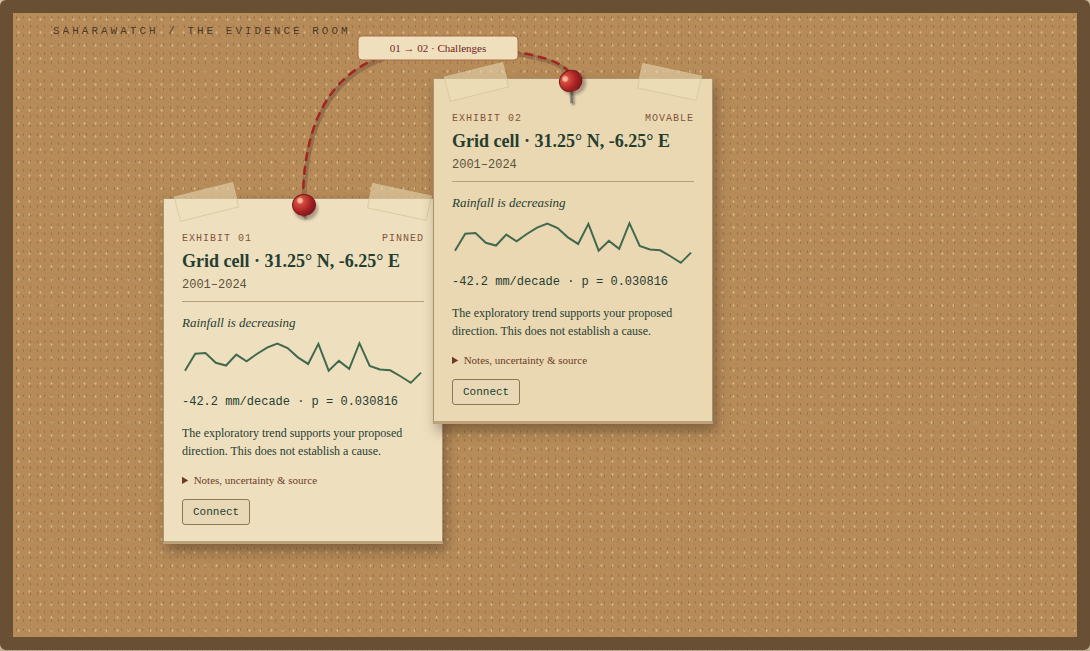
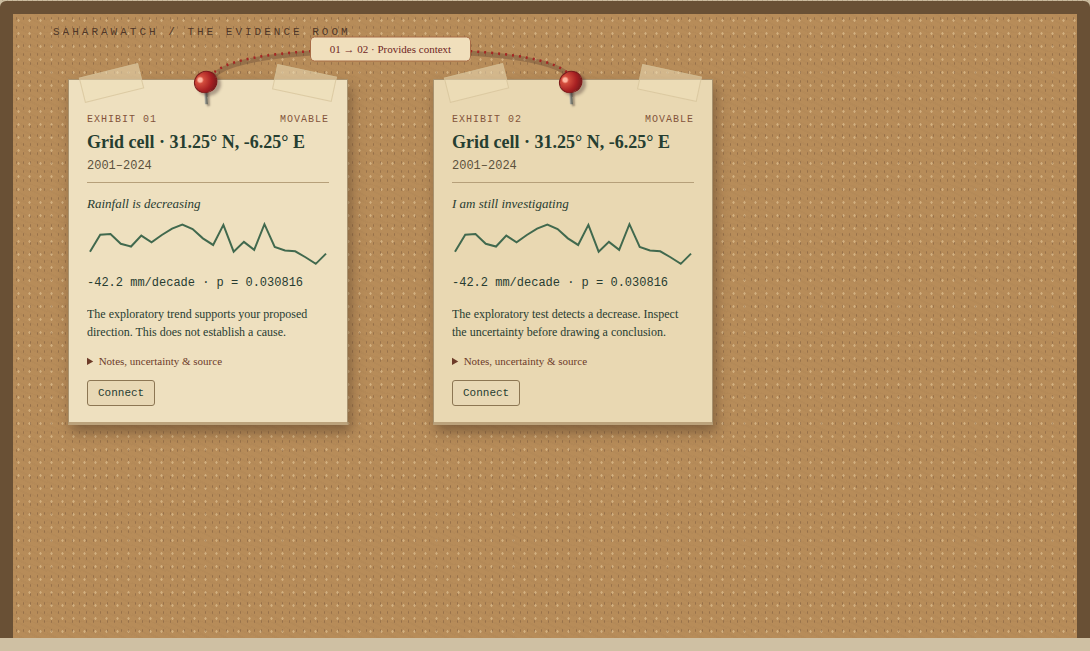
docs(readme): refresh previews for the current workspaces
Replace README screenshots with captures of the current dashboard, opening case folders, satellite year controls, rainfall playback, and evidence board. Update navigation and download instructions and add a repeatable core screenshot capture script.

diff --git a/scripts/capture_readme.py b/scripts/capture_readme.py
@@ -1,0 +1,42 @@
+"""Capture the current dashboard, rainfall playback and connected notebook for the README."""
+import os
+from pathlib import Path
+
+from playwright.sync_api import sync_playwright, expect
+
+ROOT=Path(__file__).resolve().parents[1]
+
+with sync_playwright() as p:
+    executable=Path.home()/'.cache/ms-playwright/chromium-1255/chrome-linux64/chrome'
+    browser=p.chromium.launch(headless=True,executable_path=str(executable) if executable.exists() else None,
+                             args=['--no-sandbox','--enable-unsafe-swiftshader'])
+    page=browser.new_page(viewport={'width':1550,'height':1450})
+    page.goto(os.environ.get('SAHARAWATCH_TEST_URL','http://localhost:8501'))
+    page.get_by_role('heading',name='The curious case of the missing rain.',exact=True).wait_for(timeout=60000)
+    page.wait_for_function("document.querySelector('.js-plotly-plot')?._fullLayout?.map?._subplot?.map?.loaded()",timeout=60000)
+    page.screenshot(path=str(ROOT/'assets/dashboard.png'),full_page=True)
+    page.get_by_role('tab',name='04 / Field notebook',exact=True).click()
+    page.get_by_role('textbox',name='Field notes',exact=True).fill('A single dry year does not establish a long-term drying trend.')
+    page.get_by_role('button',name='＋ Pin this evidence to the notebook',exact=True).click()
+    expect(page.locator('.evidence-card')).to_have_count(1)
+    page.get_by_text('I am still investigating',exact=True).click()
+    page.get_by_role('button',name='Stop',exact=True).wait_for(state='hidden',timeout=30000)
+    page.get_by_role('button',name='＋ Pin this evidence to the notebook',exact=True).click()
+    expect(page.locator('.evidence-card')).to_have_count(2)
+    page.get_by_role('combobox',name='Evidence relationship',exact=True).select_option('context')
+    page.get_by_role('button',name='Connect clue 01',exact=True).click()
+    page.get_by_role('button',name='Connect clue 02',exact=True).click()
+    expect(page.locator('.string-line')).to_have_count(1)
+    expect(page.locator('.board-status')).to_contain_text('Board saved',timeout=30000)
+    page.locator('.board-scroll').screenshot(path=str(ROOT/'assets/evidence-board.png'))
+    page.get_by_role('tab',name='01 / Evidence atlas',exact=True).click()
+    page.get_by_text('Open the rainfall time machine',exact=True).click()
+    element=page.locator('iframe[title="Animated rainfall map and synchronized location timeline"]')
+    element.wait_for(timeout=60000)
+    element.scroll_into_view_if_needed()
+    frame=element.element_handle().content_frame()
+    frame.wait_for_function("document.querySelector('.js-plotly-plot')?._fullLayout?.map?._subplot?.map?.loaded()",timeout=60000)
+    element.screenshot(path=str(ROOT/'assets/rainfall-history.png'))
+    assert not page.locator('[data-testid="stException"]').count()
+    print('README dashboard, connected evidence board and rainfall playback screenshots refreshed.')
+    browser.close()

diff --git a/README.md b/README.md
@@ -18,7 +18,9 @@ python scripts/prepare_data.py
 streamlit run app.py
 ```
 
-Open **http://localhost:8501**. The preparation command downloads the approximately 20 MB source file once. Subsequent runs validate the existing file. To explicitly update it, use `python scripts/prepare_data.py --refresh`. Downloads are validated before replacing an existing valid file. The dashboard never downloads data on interaction and shows an actionable error if the source is missing or malformed.
+Open **http://localhost:8501**. The preparation command downloads the approximately 20 MB rainfall source file once. Subsequent runs validate the existing file. To explicitly update it, use `python scripts/prepare_data.py --refresh`. Downloads are validated before replacing an existing valid file. Rainfall exploration uses the prepared local observations and shows an actionable error if that source is missing or malformed. Custom satellite imagery and point temperature observations download only through their explicit load buttons; downloaded evidence is cached locally.
+
+Start with **Explore rainfall**, **Compare satellite images**, or **Quizzes & investigations** at the top. Satellite imagery has its own tab beside the atlas; its date controls are separate from rainfall filters. Case files offer a guided quiz or an independent investigation for each of the six folders.
 
 The prepared dataset in this workspace covers **January 1979–October 2026**; complete calendar years through **2025** are available for annual exploration. The default analysis is **2001–2024**, with a **2001–2020** anomaly baseline. Coverage follows the downloaded file, not a hardcoded latest date.
 
@@ -43,9 +45,9 @@ Precipitation deficits are evidence of meteorological dryness, not a complete as
 - Change the analysis window, baseline, anomaly observation year, and significance threshold.
 - Inspect annual and monthly rainfall, a fitted annual trend, optional moving averages, seasonal climatology, and anomalies.
 - Compare two countries or two geographic grid cells on shared axes, in rainfall units or standardized anomalies. Each selection includes a historical chart, confidence interval, sample size, recent anomaly, and deterministic comparison of absolute and relative trend magnitudes. Download the summaries as CSV; a separate paired Newey–West HAC test evaluates the common-year linear trend difference.
-- Open **Explore a Climate Mystery** under **03 / Case files** for live Morocco trends and anomalies, Morocco versus Algeria/Tunisia comparisons, historical annual anomaly maps, and a ranking of absolute precipitation trends. Presets preserve the chosen analysis period. The strongest-trends case includes a ranked map, top-20 table, and complete CSV export; raw p-values and BH-FDR flags distinguish magnitude from statistical evidence.
-- Play **Case 005 / Has the rain returned?**: predict Morocco’s recent rainfall balance, reveal three clues, pin evidence, and submit a verdict before uncovering the calculated assessment. Download the solved case with its frozen observations and provenance.
-- Open the **satellite before/after reveal** in Case files to slide between real February 2023 and February 2024 views around Casablanca, inspect the coarse rainfall-cell footprint, and compare the imagery dates with monthly GPCP observations.
+- Open **03 / Case files** and choose any of six cases: long-term trends, cross-country comparison, annual anomalies, trend magnitude versus significance, recent rainfall recovery, and satellite interpretation. Each case offers **Answer the quiz** and **Investigate on your own**.
+- Guided quizzes freeze the observations when opened and ask one question after each of three clues. Feedback explains the supported answer and the misconception behind other choices. Completed quizzes, active attempts and independent drafts stay separate for each case in the session; download reports before closing it.
+- Independent investigations let you state a hypothesis, choose countries and periods, inspect live charts, pin evidence as supporting, challenging or contextual, and save a conclusion with one limitation. Completion records the required steps without automatically grading written scientific conclusions. The satellite case links directly to the dedicated comparison workspace.
 - Jump to the selected location’s driest year, trace its long-term trend, or challenge the evidence with the significance map.
 - Record a working hypothesis in the field notebook and compare it with the calculated trend, including inconclusive results.
 - Pin evidence snapshots with their location, analysis period, baseline, source, uncertainty, and field notes. Remove clues or download a Markdown case report. The notebook is session-only; download it before closing or refreshing the session. Starting a fresh investigation clears it.
@@ -59,39 +61,62 @@ The dashboard uses Streamlit, Plotly, xarray, NumPy, Pandas, SciPy, netCDF4, and
 
 ### Satellite before/after reveal
 
-Open **03 / Case files → Open the satellite before/after reveal**. Drag the divider, tap the image, or use the keyboard slider to compare Aqua MODIS imagery from **12 February 2023** with Terra MODIS imagery from **19 February 2024**. Both NASA GIBS true-color images cover the same 9–6° W, 31–34° N extent around Casablanca. An optional overlay shows the actual **2.5° GPCP cell boundaries**, making the difference between imagery detail and rainfall resolution visible.
+Click **Compare satellite images** at the top of the app, or open the **Satellite images** tab beside the rainfall atlas. Images appear immediately: no quiz, hypothesis, or reveal toggle is required. The recommended example compares Aqua MODIS on **12 February 2023** with Terra MODIS on **19 February 2024**, over the same 9–6° W, 31–34° N extent around Casablanca.
 
-![Satellite comparison showing aligned February 2023 and February 2024 views around Casablanca, a draggable divider, and the GPCP cell overlay](assets/satellite-comparison.png)
+![Satellite comparison with a draggable divider and optional GPCP cell overlay](assets/satellite-comparison.png)
 
-The original satellite views, covering the same geographic extent:
+**Choose your own years:** select **Choose years**, choose Terra or Aqua MODIS, set a **Before year** and **After year**, and choose a common month/day. Press **Load comparison** to request those exact dates from NASA GIBS. The displayed **Showing** label always states the dates and platforms of the images actually loaded. Controls do not relabel an old image while a new selection is pending.
+
+![Satellite workspace with year, month and day controls](assets/satellite-year-controls.png)
+
+[View the year controls on mobile](assets/satellite-year-controls-mobile.png).
+
+The app checks NASA's actual time-domain catalogue, including known gaps. Invalid dates, reversed or equal years, future dates, unreadable responses, and blank imagery produce an explanation while retaining the previous comparison. No nearby date is silently substituted. Clouds, haze and snow can still obscure valid imagery; change the common day to inspect another acquisition. Transparent missing-data area is distinguished from valid pixels; valid-image coverage is **not** a cloud-free percentage.
+
+Custom comparisons use the same satellite, output extent, projection, month and day in both years. Exact original PNG responses, request URLs, timestamps, checksums, and valid-image area are cached under ignored `data/raw/satellite/`. New images are fetched only after **Load comparison**; dragging the divider, changing rainfall filters, or returning to a previously downloaded pair reuses local observations. The recommended example is bundled and remains available without a network connection.
+
+The rainfall chart marks the loaded acquisition dates and shows the nearest GPCP cell to Casablanca. Separate six-month totals cover complete months before each acquisition month; missing observations withhold the corresponding total. Monthly bars include days after acquisition and cannot resolve individual rainfall events. The optional overlay shows actual **2.5° GPCP cell boundaries**, rather than suggesting that image detail increases rainfall resolution. Rainfall sidebar settings are collapsed in this workspace and do not change image dates.
+
+Download the evidence ZIP for both original images, monthly rainfall CSV and the loaded pair's provenance. **Investigate this comparison** opens **Case 006 → Investigate on your own**, carrying the current dates into evidence pins and saved reasoning. The Case 006 quiz uses the fixed 2023/2024 teaching example and labels it separately.
+
+The original example, with matching geographic extent:
 
 | Before · 12 February 2023 · Aqua MODIS | After · 19 February 2024 · Terra MODIS |
 | --- | --- |
-| ![Before: NASA GIBS true-color view around Casablanca on 12 February 2023](data/satellite/casablanca-2023-02-12.jpg) | ![After: NASA GIBS true-color view around Casablanca on 19 February 2024](data/satellite/casablanca-2024-02-19.jpg) |
+| ![Before: NASA GIBS view around Casablanca on 12 February 2023](data/satellite/casablanca-2023-02-12.jpg) | ![After: NASA GIBS view around Casablanca on 19 February 2024](data/satellite/casablanca-2024-02-19.jpg) |
 
-[View the satellite comparison on mobile](assets/satellite-comparison-mobile.png).
+[View the comparison on mobile](assets/satellite-comparison-mobile.png). See [image provenance and limits](data/satellite/README.md), [NASA's original context](https://science.nasa.gov/earth/earth-observatory/drought-parches-morocco-152467/) and [GIBS time-domain documentation](https://nasa-gibs.github.io/gibs-api-docs/access-basics/).
 
-The rainfall chart marks both acquisition dates and shows the nearest GPCP cell to Casablanca. Separate six-month totals cover complete months before each acquisition month; missing observations withhold the corresponding total. Monthly bars include days after the acquisition date and cannot resolve individual rainfall events. The curated dates and location stay fixed as sidebar settings change.
+Run `python scripts/browser_satellite_smoke.py` for the bundled comparison or `python scripts/browser_satellite_years_smoke.py` for custom-year loading and handoff; set `SAHARAWATCH_TEST_URL` to use another port. The custom-year check requires NASA access or a previously cached catalogue and image pair.
 
-Images are bundled locally and checked against recorded SHA-256 hashes. Opening or dragging the comparison makes no external imagery requests. Download the evidence ZIP for both original JPEG responses, monthly rainfall CSV, and acquisition/source provenance. This is a visual investigation: same-season images still differ in platform, overpass, haze, clouds, snow, and other conditions; their appearance does not establish rainfall causation or quantify vegetation health or reservoir volume.
+### Six cases, two ways to investigate
 
-See [image provenance and limitations](data/satellite/README.md) and [NASA’s published comparison](https://science.nasa.gov/earth/earth-observatory/drought-parches-morocco-152467/). Verify the interaction with `python scripts/browser_satellite_smoke.py` against a running app, or set `SAHARAWATCH_TEST_URL` for another port.
+Open **03 / Case files**. The shared selector and path choice appear first, labeled as steps 1 and 2, with difficulty, estimated duration, and separate quiz/investigation completion status. The six cases sit on a detective’s wooden desk as worn manila folders, with paper tabs, clips, pencilled details, coffee rings, and evidence stamps. Click anywhere on a folder to fold its cover open and reveal its field notes; the quiz or investigation below switches to that case. The active folder stays open. Folders also work with keyboard and touch, and opening motion is disabled when reduced motion is preferred.
 
-### Playable climate mystery
+| Case | Investigation |
+| --- | --- |
+| 001 · Is Morocco becoming drier? | Fitted direction, statistical uncertainty and attribution limits |
+| 002 · Across the border | Morocco–Algeria magnitudes and a paired HAC slope-difference test |
+| 003 · The dry-year files | Annual anomalies, a −1.5 standardized-anomaly threshold and the one-year trap |
+| 004 · Follow the strongest trail | Trend rankings, FDR flags and the distinction from drought risk |
+| 005 · Has the rain returned? | Latest three complete years, accumulated deficits and spatial differences |
+| 006 · What changed from space? | Satellite platforms, rainfall resolution and limits of visual attribution |
 
-Open **03 / Case files → Case 005 / Has the rain returned?** to investigate Morocco’s latest three complete calendar years. Record a prediction before opening the envelope, reveal the annual record, accumulated rainfall departures, and country-cell footprint in sequence, then choose a verdict before unsealing the calculated assessment. A recent improvement can coexist with a remaining accumulated deficit; the conclusion follows the observations rather than a preset story. Missing observations can produce **Insufficient data**.
+**Answer the quiz:** record an initial hypothesis, open a frozen attempt, and answer a question after each of three clues. Check an answer to see the supported choice, its numerical or conceptual explanation, and feedback on the selected alternative. Incorrect answers do not block learning; the first-attempt score remains recorded. Unsupported numerical assessments offer **Insufficient data**. Quiz answers follow the observations and selected method rather than preset climate conclusions. Each answered clue can be pinned to the notebook. Download a solved quiz as JSON, including observations, charts, answers, settings and source provenance, or continue directly into an independent investigation.
 
-**Predict → Reveal three clues → Pin evidence → Choose a verdict → Unseal the assessment.**
+**Investigate on your own:** write a hypothesis, choose a country and investigation/reference periods, then explore the live evidence with optional hints. These period controls are independent of the sidebar. The cross-country case lets you choose a partner; the anomaly and ranking cases investigate the MENA rectangle, including ocean cells. The recent-rainfall case supports 3-, 5- or 10-year assessments. The satellite investigation uses the pair currently loaded in the dedicated Satellite images workspace. Pin observations with an interpretation and note, then write a conclusion and limitation. Saving requires all four steps: hypothesis, pinned evidence, conclusion, limitation. The app records completion without deciding whether the prose is scientifically correct. JSON exports preserve the saved evidence and reasoning; save again after edits to update the download.
 
-![Playable climate mystery showing Morocco’s rainfall-deficit footprint, clue-pinning controls, and the next step toward a verdict](assets/playable-mystery.png)
+![Six worn case-file folders on a detective’s desk, with coffee stains, paper clips and the selected folder open](assets/case-folders.png)
 
-[View the prediction screen on mobile](assets/playable-mystery-mobile.png).
+[View an open folder on mobile](assets/case-folder-mobile.png).
 
-The case freezes its observations, charts, baseline, country weighting, source status, and checksum when opened. Later sidebar changes leave that case intact; **Restart this mystery** opens a fresh envelope using the current baseline and weighting. The assessment period always uses the latest three complete years, independently of the analysis-period slider. Each clue can be pinned to the existing notebook and evidence board without revealing the final assessment. Restarting the mystery retains pinned clues; starting a fresh investigation clears the session. A solved case downloads as JSON with the prediction, verdict, observations, figures, assessment, and provenance. All narration is deterministic; no language-model service is needed.
+Attempts, completed reports, independent drafts, and pinned clues survive switching cases within the session. Restarting a quiz uses current settings while retaining completed reports and pins. **Start a fresh investigation** clears session state. Download reports before closing or refreshing the session. Quizzes are deterministic; no language-model service is needed.
 
-This case evaluates a historical precipitation balance, independently of long-term trend inference, drought impacts, attribution, or forecasting. Country-cell departures use each cell’s own baseline and report valid spatial coverage.
+Case 005 retains its historical rainfall-balance calculations and three evidence charts. Its quiz always uses the latest three complete calendar years, independently of the analysis-period slider. Its reference baseline and weighting freeze on opening. The independent version uses the investigation period's ending year. Neither version establishes drought impacts, causes, or future conditions.
 
-Verify the interaction against a running app with `python scripts/browser_mystery_smoke.py` (or set `SAHARAWATCH_TEST_URL` for another port).
+Verify the flow with `python scripts/browser_case_library_smoke.py` against a running app, or set `SAHARAWATCH_TEST_URL` for another port. `python scripts/browser_mystery_smoke.py` checks the Case 005 quiz specifically.
+
+Run `python scripts/browser_folders_smoke.py` to verify full-cover folder selection, opening state, keyboard, touch, reduced motion and mobile layout.
 
 ### Rainfall time machine
 
@@ -177,6 +202,8 @@ python scripts/browser_board_smoke.py
 ```
 
 The browser check verifies rendered plots, country and tab navigation, detective controls, note-taking, report downloads, browser errors, and a 390px mobile viewport. Set `SAHARAWATCH_TEST_URL` to test a local server on another port. It saves screenshots in `assets/`.
+
+To refresh the README's dashboard, evidence-board and rainfall-playback images, run `python scripts/capture_readme.py`. The folder and satellite browser checks refresh their corresponding desktop and mobile previews from the running app.
 
 ## Additional local improvements
 

diff --git a/data/satellite/README.md b/data/satellite/README.md
@@ -14,3 +14,11 @@ Credit: NASA EOSDIS Global Imagery Browse Services (GIBS), Aqua and Terra MODIS.
 The coastline and terrain align visually. The earlier image contains visible haze and clouds, and both views include snow. There is no quantitative cloud mask or image-difference classification. Same-season acquisition limits seasonal differences but cannot eliminate them, and the two platforms have different overpass conditions. True-color browse pixels do not measure vegetation health, reservoir volume, or rainfall. Do not infer causation from an image pair.
 
 The optional GPCP overlay shows actual 2.5° cell edges, projected into the image extent. The rainfall panel uses the nearest GPCP cell to Casablanca, not a city-level estimate or a national average. Its six-month totals exclude the image-acquisition month; monthly bars include the full calendar month even when the satellite image was taken earlier in that month.
+
+## User-selected comparisons
+
+The bundled pair remains the recommended example. The separate **Satellite images** workspace also accepts two years, a common month/day and one MODIS platform for both acquisitions. It checks the selected platform's actual GIBS time-domain intervals and requests exact dates; it never silently selects an adjacent date. Custom imagery uses transparent PNG responses over the same extent and dimensions as the example.
+
+Original responses and per-image provenance are cached under ignored `data/raw/satellite/`. Checksums validate cache reuse; missing or unreadable dates retain the currently displayed pair. The last successfully fetched availability catalogue can support cached use when the service is unreachable, with a stale-catalogue notice. Cached image area measures nontransparent pixels, not cloud-free coverage. Custom pairs are not manually reviewed for clouds or registration artifacts.
+
+The loaded pair's manifest and originals are included in the satellite evidence ZIP. Case 006 independent-investigation pins use the current pair and its rainfall dates; the guided quiz remains tied to the explicitly labeled, reviewed training example.
